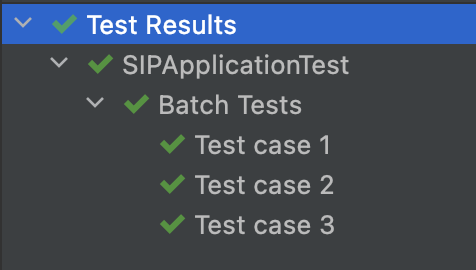
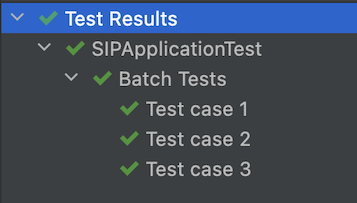
picture resizing

diff --git a/docs/test-kit.md b/docs/test-kit.md
@@ -97,7 +97,7 @@ and skip additional setting.
 
 Each test case will execute as a separate unit test with its own report displayed.
 
-<img alt="Console Report" src="../img/ConsoleReport.png" width="100"/>
+![alt-text](./img/ConsoleReport.png)
 
 To disable SIP Test Kit, the following configuration is needed:
 ```yaml
